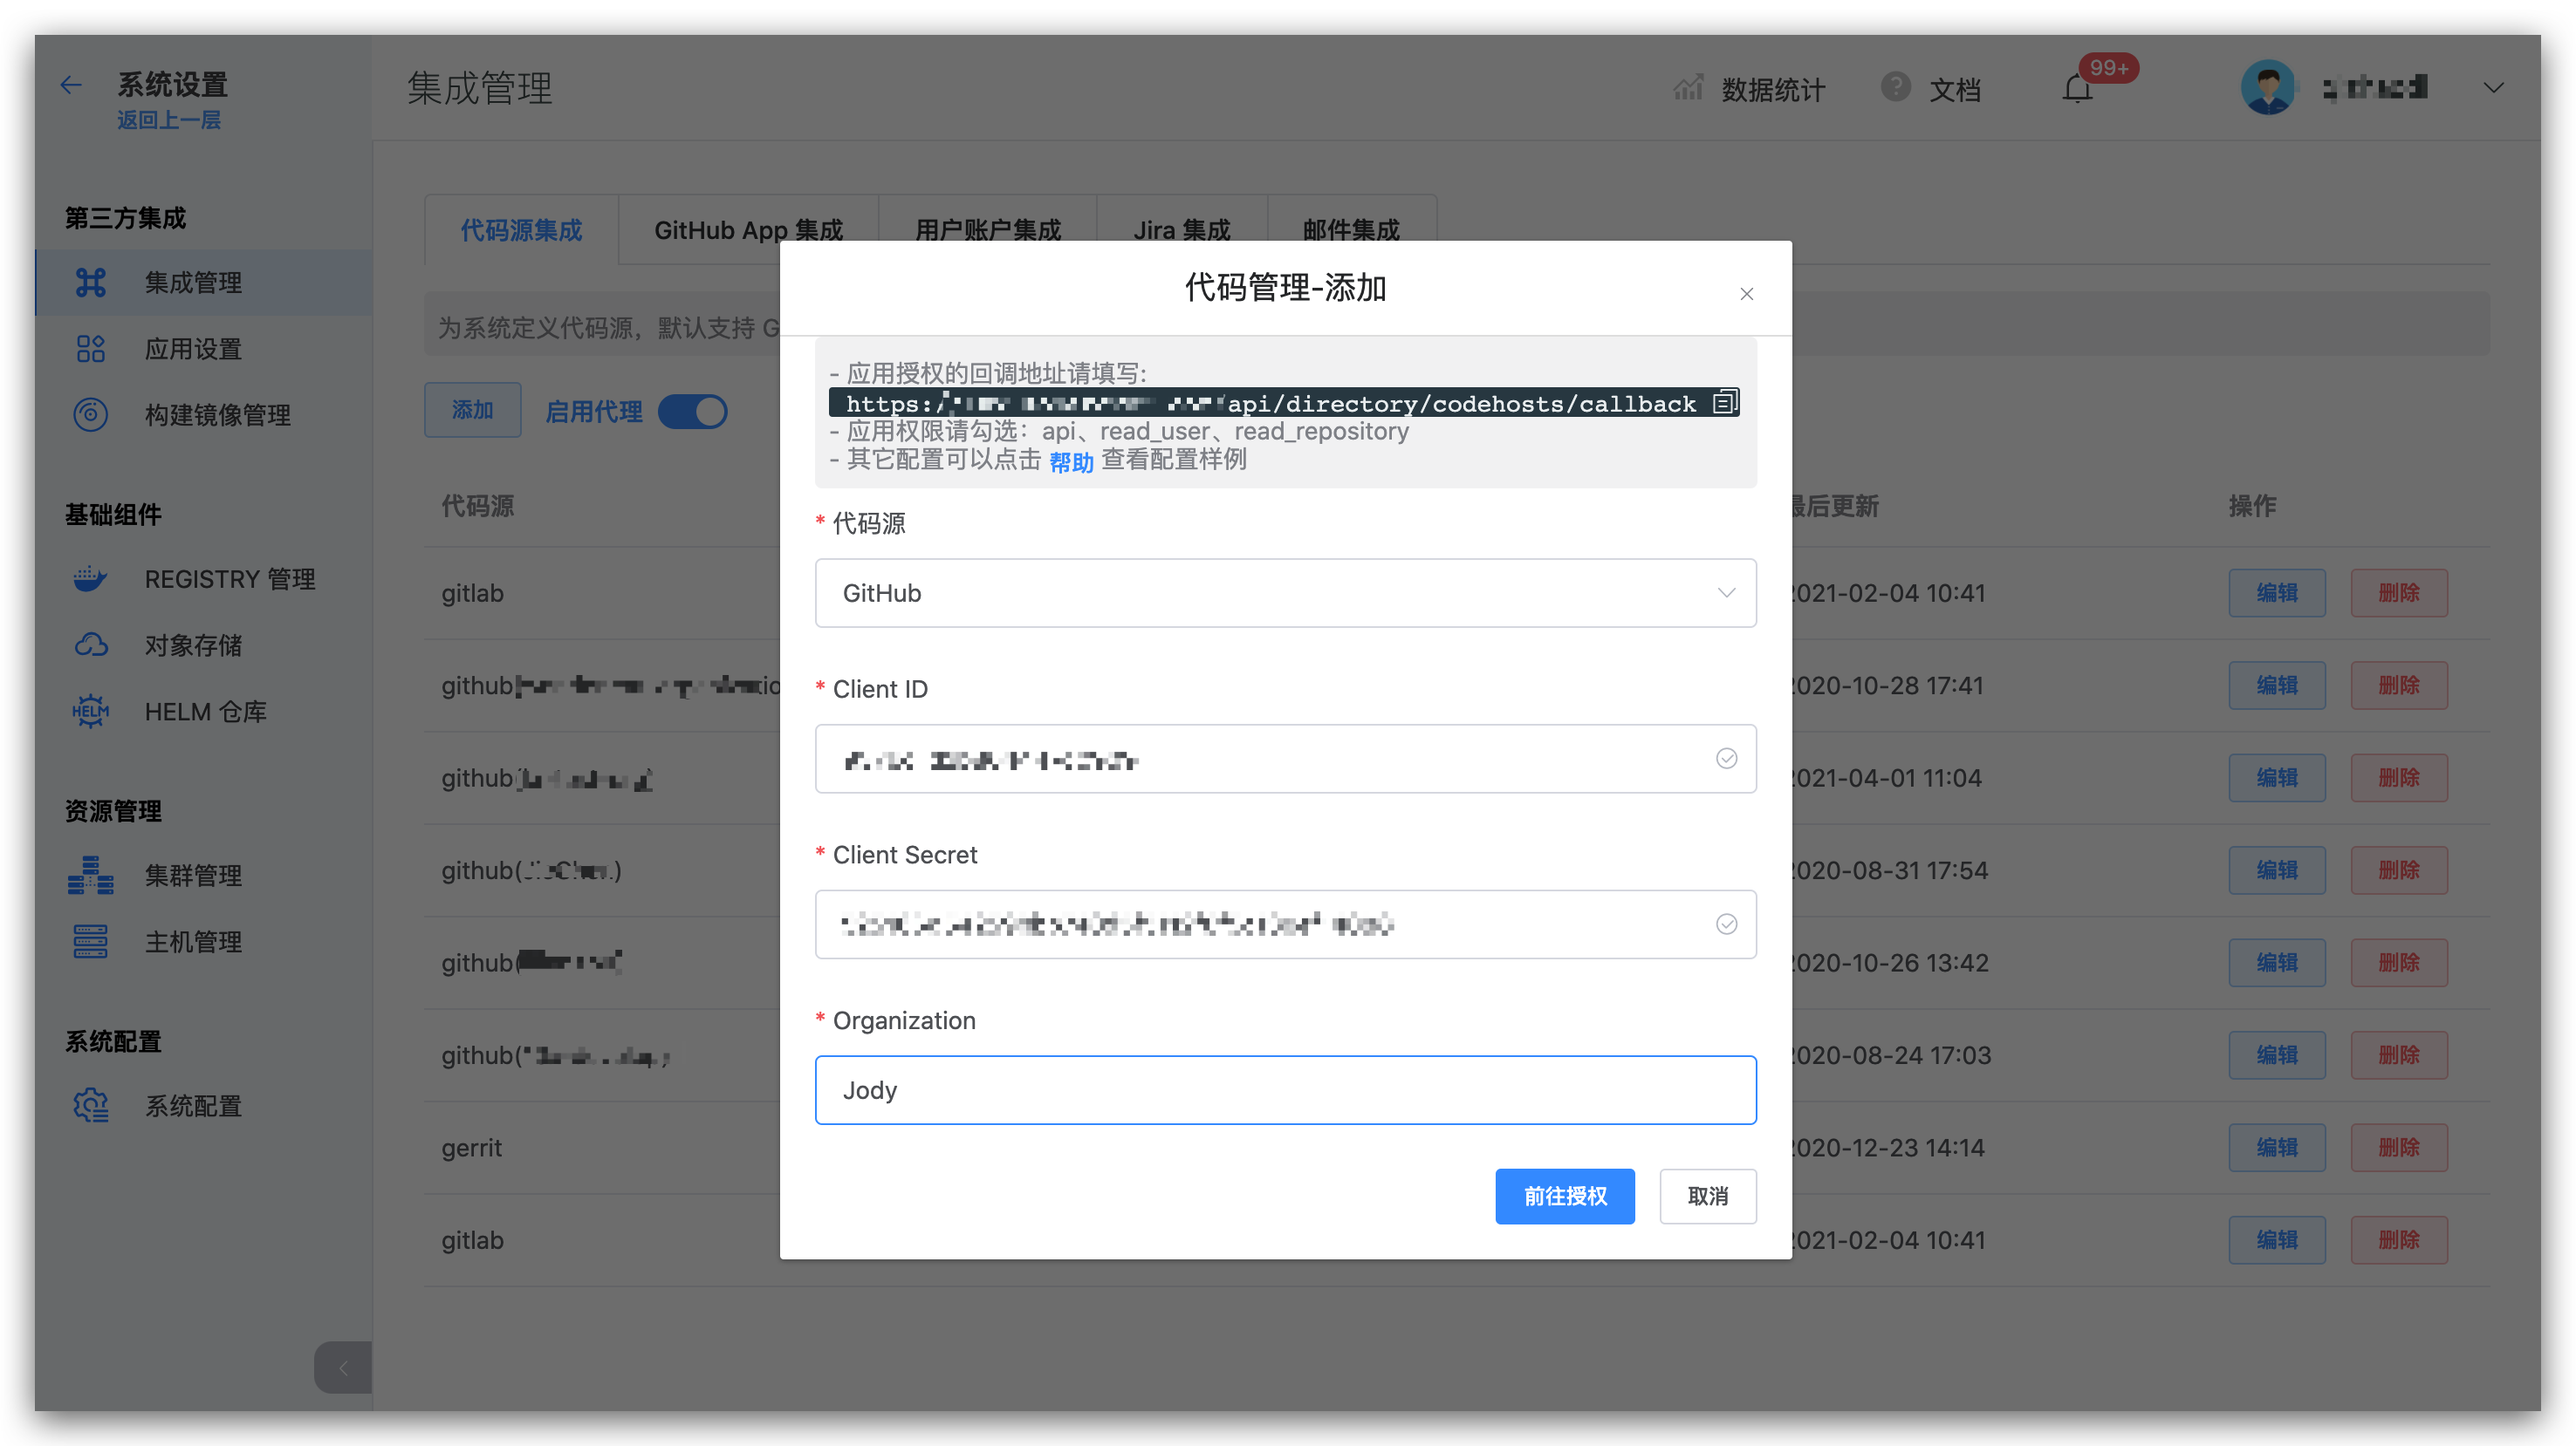
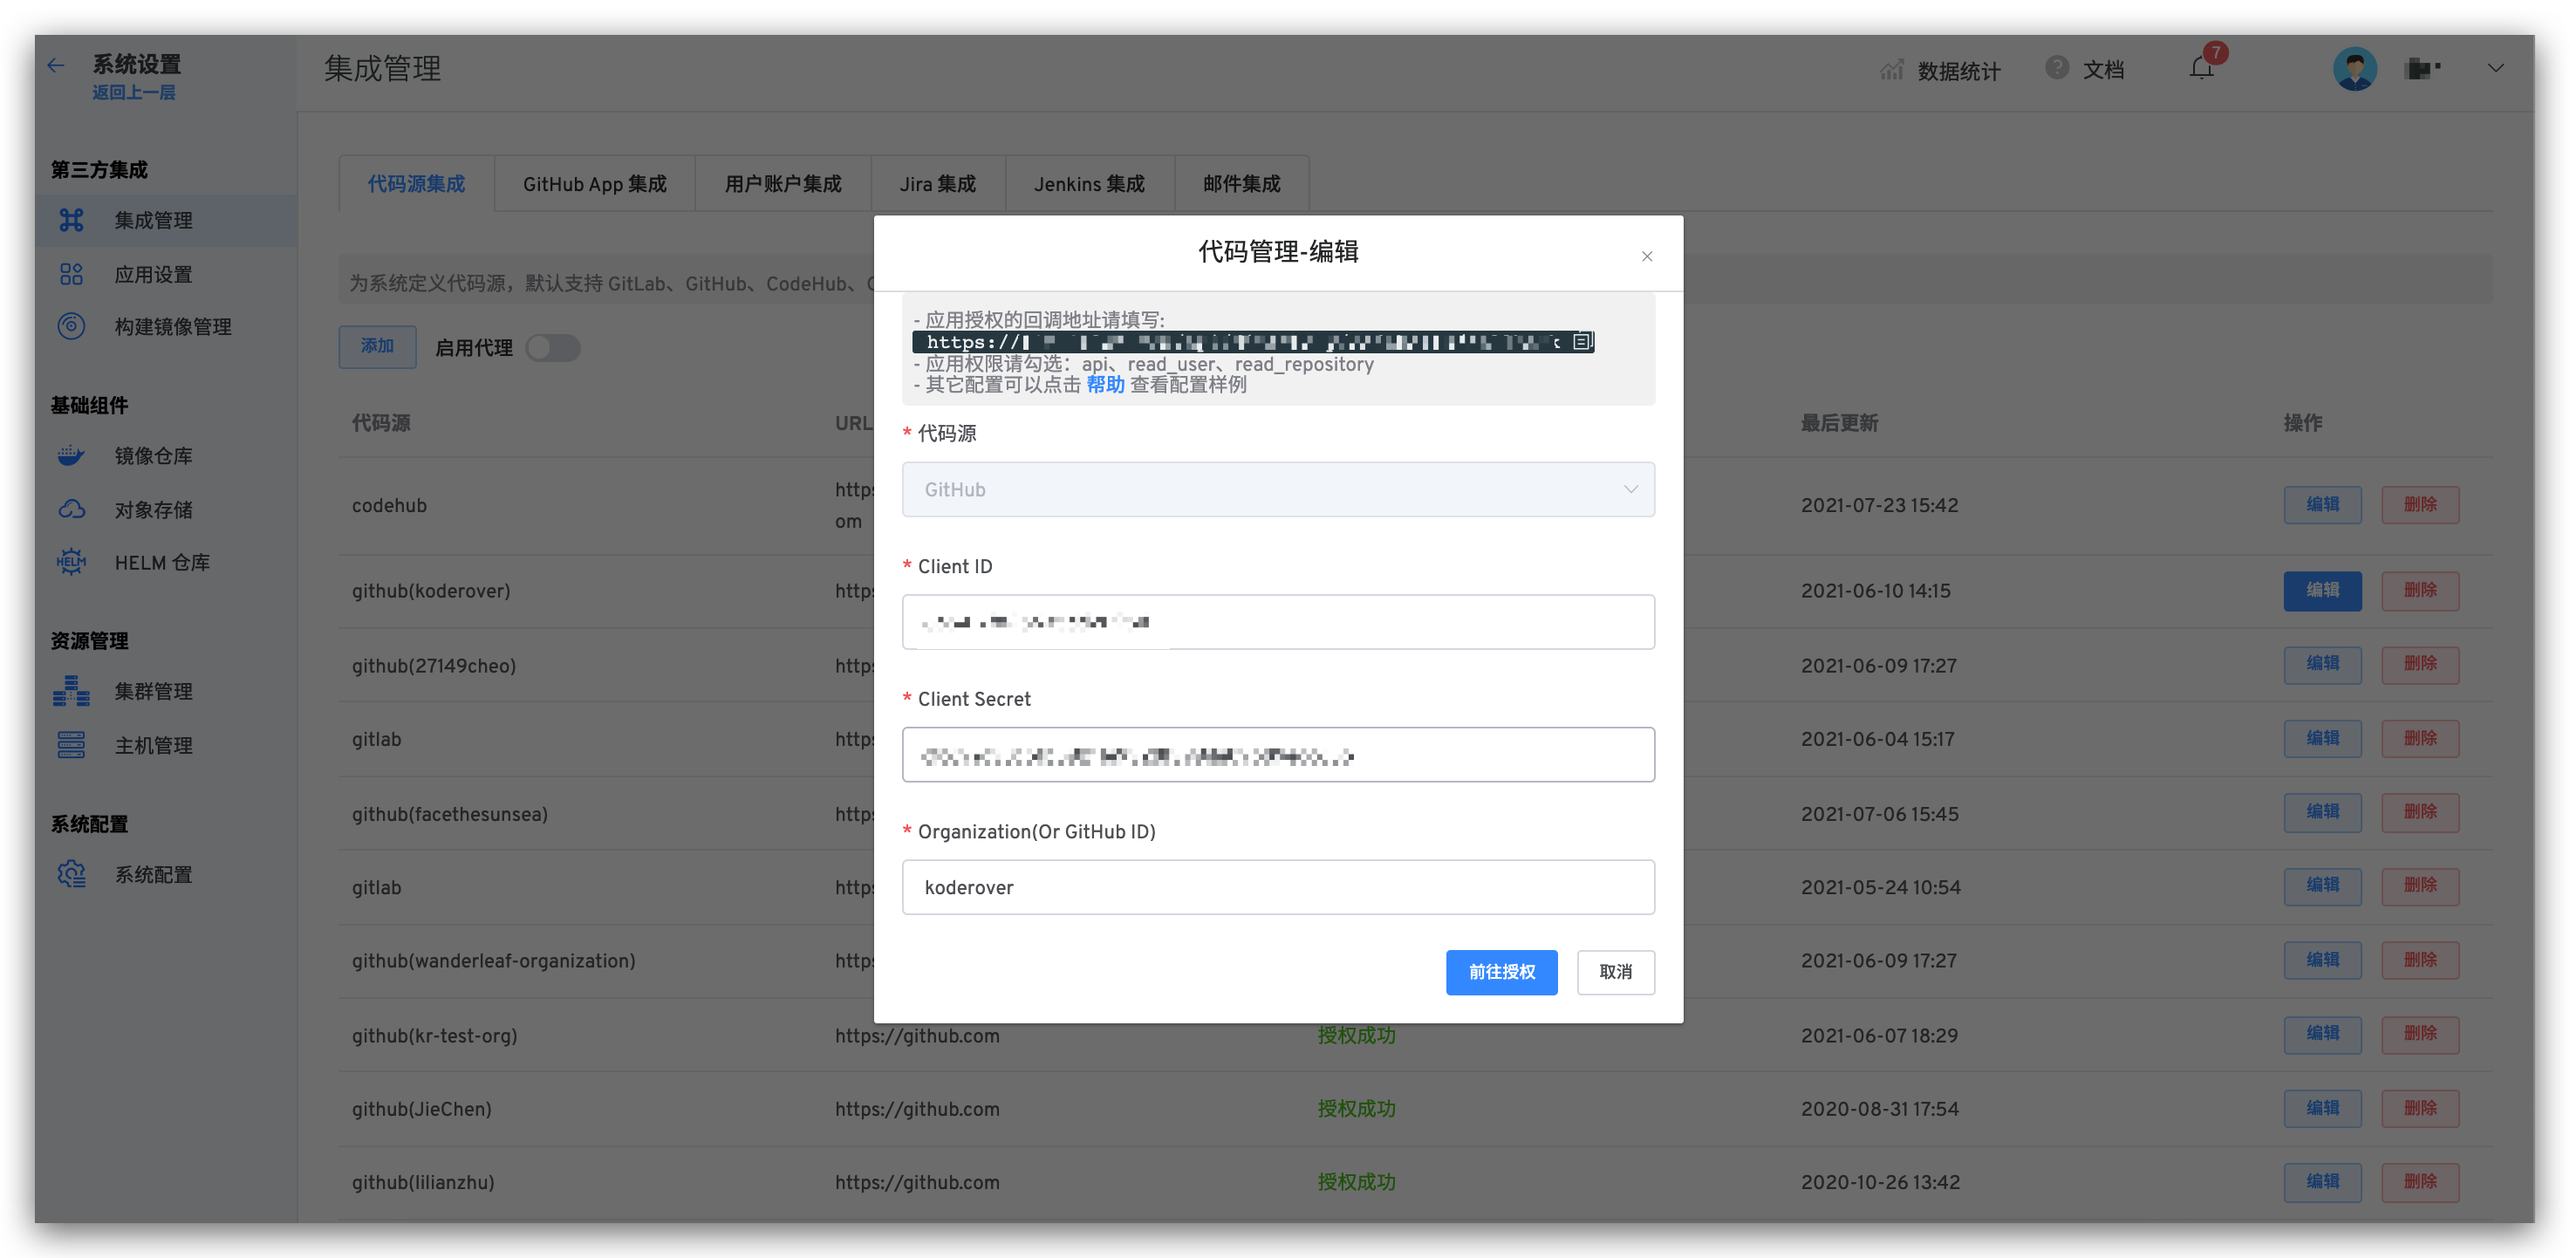
update install overview & modify github org description

diff --git a/zh_cn/02.安装与配置/00.overview.md b/zh_cn/02.安装与配置/00.overview.md
@@ -7,10 +7,13 @@ permalink: /install/overview/
 
 Zadig 安装目前支持 4 种模式：
 
-- [`All in One 一键安装模式`](/install/all-in-one/)：在单台云主机或者虚拟机上安装 Zadig，适合初次接触 Kubernetes 和 Zadig 并想快速上手的用户（仅为让用户熟悉 Zadig，正式使用请选择其他模式安装）
-- [`基于现有 Kubernetes 安装`](/install/install-on-k8s/)：在现有 Kubernetes 集群上安装 Zadig。
-- [`基于 Helm 命令安装`](/install/helm-deploy/)：使用 Helm 命令在现有 Kubernetes 集群上安装 Zadig。适合对 Helm 有一定了解的用户。
-- [`离线安装`](/install/offline/)：针对有 Kubernetes 集群但无外网访问权限的使用场景（不建议生产使用）
+| 安装方式 | 说明 | 适用场景 |
+|-------- | ---- |--------|
+| [`All in One 一键安装模式`](/install/all-in-one/) | 在单台云主机或虚拟机安装 | 不建议生产使用 |
+| [`基于现有 Kubernetes 安装`](/install/install-on-k8s/) | 在现有 Kubernetes 集群上安装 | 可生产使用 |
+| [`基于 Helm 命令安装`](/install/helm-deploy/) | 使用 Helm 命令在现有 Kubernetes 集群上安装  | 可生产使用 |
+| [`离线安装`](/install/offline/) | 针对有 Kubernetes 集群但无外网访问权限的使用场景 | 不建议生产使用 |
+
 
 ::: tip 提示
 请参照[兼容性列表](/pages/compatibility)获取更多集群以及主机兼容性信息。

diff --git a/zh_cn/10.系统设置/01.代码源集成/01.github.md b/zh_cn/10.系统设置/01.代码源集成/01.github.md
@@ -69,7 +69,7 @@ permalink: /settings/codehost/github
 - `代码源`：此处选择 GitHub
 - `Client ID`：步骤 3 应用创建成功返回的 Client ID
 - `Client Secret`：步骤 3 生成的 Client Secret
-- `Organization`：GitHub 要授权的 Organization 名称
+- `Organization(Or GitHub ID)`：如果授权 Organization 下的 OAuth App，此处填写 Organization 名称；如果授权个人账号下的 OAuth App，此处填写个人 GitHub ID。
 
 信息确认无误后点击 `前往授权`，耐心等待，此时会系统会跳转到 GitHub 进行授权。
 

diff --git a/zh_cn/02.安装与配置/03.helm.md b/zh_cn/02.安装与配置/03.helm.md
@@ -6,6 +6,10 @@ permalink:  /install/helm-deploy/
 
 本文主要介绍如何使用 Helm 来安装 Zadig 系统。
 
+::: warning
+  使用 Helm 命令在现有 Kubernetes 集群上安装 Zadig。适合对 Helm 有一定了解的用户。
+:::
+
 ## 前置条件
 1. 安装 Helm v3.5+，这是一个简单的命令行工具，可以从[此处](https://github.com/helm/helm/releases)获取。
 2. Kubernetes  v1.12.0+ 版本 <br>

diff --git a/zh_cn/02.安装与配置/04.offline-installation.md b/zh_cn/02.安装与配置/04.offline-installation.md
@@ -10,8 +10,6 @@ permalink: /install/offline/
 Kubernetes 集群建议资源配置要求：8 Cores 16 GB，K8s 集群版本参照[兼容性列表](/pages/compatibility/)
 :::
 
-
-
 ## 准备工作
 - 有该集群的 admin 操作权限（注意 ~/.kube 目录下有正确的集群 config 文件）
 - 如果集群有多个节点，需保证每个节点的 ssh 登陆用户名 **(USERNAME)** 一致

diff --git a/zh_cn/02.安装与配置/01.all-in-one.md b/zh_cn/02.安装与配置/01.all-in-one.md
@@ -3,6 +3,9 @@ title: All in One 模式
 date: 2021-03-16 16:48:02
 permalink: /install/all-in-one/
 ---
+::: warning
+ All in One 模式在单台云主机或者虚拟机上安装 Zadig，适合初次接触 Kubernetes 和 Zadig 并想快速上手的用户，不推荐生产使用。
+:::
 ## 步骤 1：准备 Linux 机器
 
 ::: tip 提示

diff --git a/zh_cn/02.安装与配置/02.install-on-k8s.md b/zh_cn/02.安装与配置/02.install-on-k8s.md
@@ -4,6 +4,10 @@ date: 2021-03-29 16:18:33
 permalink: /install/install-on-k8s/
 ---
 
+::: warning
+ 在现有 Kubernetes 集群上安装 Zadig。可生产使用。
+:::
+
 ## 步骤 1：准备 Kubernetes 集群
 
 - Kubernetes  <Badge text="v1.12.0 +" /> 版本 <br>
